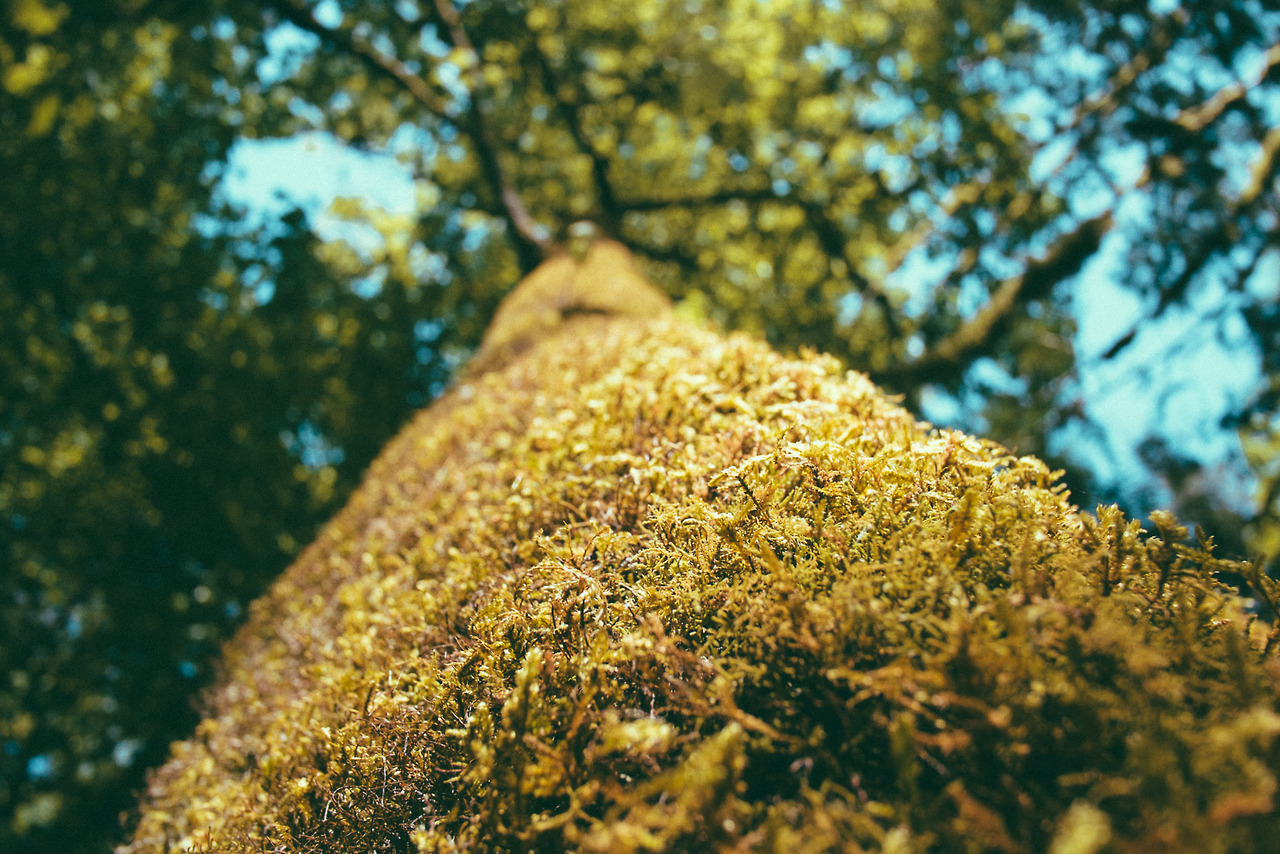
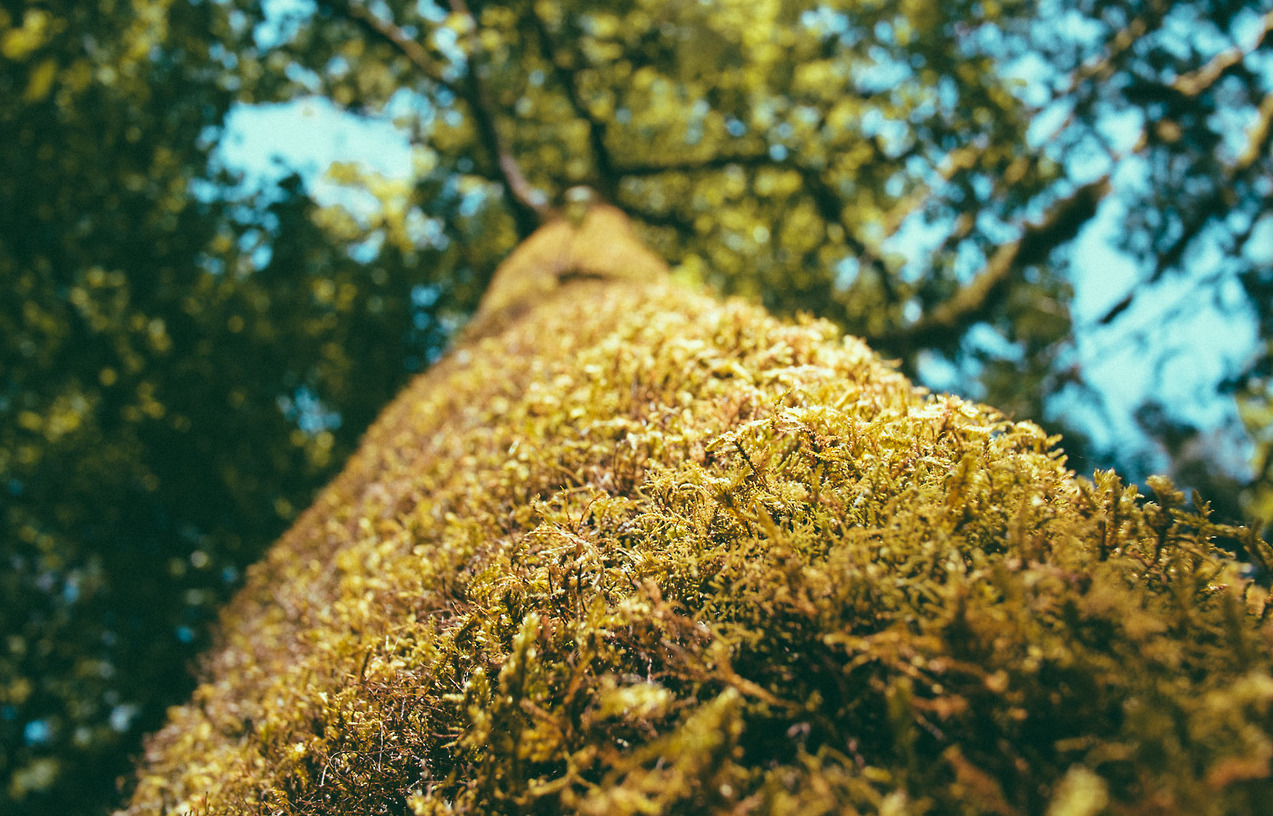
worked on spacing, font sizes, and opactity in price boxes; corrected price background color and font opacity and spacing; corrected button background and border

diff --git a/css/global.css b/css/global.css
@@ -8,10 +8,21 @@ img {
 .navContainer {
     margin: 1px, auto;
     background-color: rgb(255, 255, 255);
-    font-size: 13.5px;
-    color: rgba(0, 0, 0, .5);
-    /*color: darkslategray;*/
+    font-size: 14.5px;
 }
+
+.gen {
+    color:  rgba(0, 0, 0, .5);
+}
+
+.specLogo {
+    color: rgba(0, 0, 0, .6);
+}
+
+.specPrice {
+    color: black;
+}
+ 
 .rowNav {
     margin-bottom: 2px;
 }
@@ -27,92 +38,112 @@ img {
 }
 .columnNav li {
     display: inline;
-    margin-right: 30px;
+    margin-right: 22px;
 }
 body {
     background-color: rgb(255, 255, 255);
 }
 header {
-    background-image: url("../img/background.jpg");
+    background-image: url("../img/backgroundc.jpg");
     background-repeat: no-repeat;
     background-size: cover;
     width: 100%;
-    height: 468px;
-    padding: 200px;
+    height: 430px;
+    padding: 150px;
     margin-left: 0;
     margin-right: 0;
     color: white;
     text-shadow: 0px 2px 2px black;
     text-align: center;
-    font-size: 50px; 
+    font-size: 50px;
 }
 
 .prices {
-    margin-left: 115.5px;
-    margin-right: 115.5px;
+    /*margin-left: 130px;
+    margin-right: 130px;*/
+    margin-left: 13.25%;
+    margin-right: 13.25%;
     display: flex;
+    margin-top: 30px;
 }
 
-.price5ContainerCol {
+.priceContainerCol {
     flex: 3;
     padding: 10px;
-    margin: 30px 5px;
-    /*margin-right: 5px;*/
+    margin: 2px;
     text-align: center;
 }
 
 .rowpriceType {
-    font-size: 13px;
+    font-size: 17px;
     color: white;
-    padding: 30px;
-    letter-spacing: 2px;
+    /*padding: 30px;*/
+    letter-spacing: 3px;
 }
 
 .rowpriceAmount {
-    font-size: 60px;
+    font-size: 90px;
     color: white;
-    padding: 10px;
+    /*padding: 10px;*/
+    font-weight: 300;
 }
 
 .rowpriceSchedule {
-    font-size: 16;
+    font-size: 20px;
     color: rgba(255, 255, 255, 0.5);
-    padding: 10px;
+    /*padding: 10px;*/
 }
 /*apply shading on image and all of the color headers. figure out span on the pricing text */
 .price5Head {
-    background-color: rgb(64, 131, 61);
-    /*display: flex;*/
-    margin-bottom: 40px;
+    background-color: rgba(64, 131, 61, .9);
+    padding-top: 15px;
+    padding-bottom: 15px;
 }
-
-.priceDetails > div {
-    border-bottom: 1px solid black;
-}
-/*do priceDetails > div. the > sign means "within" so that says all of the divs within the class." NEED TO ADD THE TOP, BOTTOM, AND SIDES. */
-.price25ContainerCol {
-    flex: 3;
-    padding: 10px;
-    margin-right: 10px;
-}
-
 .price25Head {
-    background-color: rgb(32, 52, 116);
-    /*display: flex;*/
-    margin-bottom: 40px;
-}
-
-.price45ContainerCol {
-    flex: 3;
-    padding: 10px;
-    margin-right: 10px;
+    background-color: rgba(32, 52, 116, .9);
 }
 
 .price45Head {
-    background-color: rgb(14, 14, 14);
-    /*display: flex;*/
-    margin-bottom: 40px;
+    background-color: rgba(14, 14, 14, .9);
 }
+
+.priceDetails > div {
+    border: 1px solid rgb(215, 215, 215);
+    /*border-right: 1px solid rgb(215, 215, 215);
+    border-bottom: 1px solid rgb(215, 215, 215);
+    border-left: 1px solid rgb(215, 215, 215);*/
+    text-align: center;
+    background-color: rgb(245, 245, 245);
+    padding: 10px; 
+    color: rgba(0, 0, 0, .7)
+}
+
+.priceChoose {
+    border: 1px solid rgb(215, 215, 215);
+    /*border-right: 1px solid rgb(215, 215, 215);
+    border-bottom: 1px solid rgb(215, 215, 215);
+    border-left: 1px solid rgb(215, 215, 215);*/
+    text-align: center;
+    background-color: rgb(255, 255, 255);
+    padding: 27px;
+    margin-bottom: 20px;
+}
+
+button {
+    border-radius: 150px;
+    background-color: rgb(255, 255, 255);
+    border: 2px solid rgb(215, 215, 215);
+    /*border-top: 2px solid rgb(215, 215, 215);
+    border-right: 2px solid rgb(215, 215, 215);
+    border-bottom: 2px solid rgb(215, 215, 215);
+    border-left: 2px solid rgb(215, 215, 215);*/
+    padding-top: 10px;
+    padding-bottom: 10px;
+    padding-right: 15px;
+    padding-left: 15px;
+}
+
+
 
 /*for the gray text in footer . . . still have to figure out the "links"*/
 footer {

diff --git a/index.html b/index.html
@@ -15,10 +15,10 @@
             <div class="columnNav">
                 <nav>
                     <ul>
-                        <li>YOUR LOGO</li>
-                        <li>Home</li>
-                        <li>Pricing</li>
-                        <li>Contact</li>
+                        <li class="specLogo"><strong>YOUR LOGO</strong></li>
+                        <li class="gen"><strong>Home</strong></li>
+                        <li class="specPrice"><strong>Pricing</strong></li>
+                        <li class="gen"><strong>Contact</strong></li>
                     </ul>
                 </nav>
             </div>
@@ -31,7 +31,7 @@
     </header>
     
     <div class="prices">
-        <div class="price5ContainerCol">
+        <div class="priceContainerCol">
             <div class="price5Head">
                 <div class="rowpriceType">PERSONAL</div>
                 <div class="rowpriceAmount">$5</div>
@@ -47,12 +47,12 @@
                 <div>Unlimited bandwidth</div>
             </div>
             <div class="priceChoose">
-                <button type="submit">Choose</button>
+                <button type="submit"><strong>Choose</strong></button>
                 <!--QQRagen: add link for button to go to?-->
             </div>
         </div>
 
-        <div class="price25ContainerCol">
+        <div class="priceContainerCol">
             <div class="price25Head">
                 <div class="rowpriceType">SMALL BUSINESS</div>
                 <div class="rowpriceAmount">$25</div>
@@ -64,18 +64,18 @@
                 <div>Use your own domain</div>
                 <div>Standard customer support</div>
                 <div>10GB file storage</div>
-                <div>5 databases</div>
+                <div>Text5 databases</div>
                 <div>Unlimited bandwidth</div>
             </div>
 
             <div class="priceChoose">
-                <button type="submit">Choose</button>
+                <button type="submit"><strong>Choose</strong></button>
                 <!--QQRagen: add link for button to go to?-->
             </div>
         </div>
 
 
-        <div class="price45ContainerCol">
+        <div class="priceContainerCol">
             <div class="price45Head">
                 <div class="rowpriceType">ENTERPRISE</div>
                 <div class="rowpriceAmount">$45</div>
@@ -87,12 +87,12 @@
                 <div>Use your own domain</div>
                 <div>Standard customer support</div>
                 <div>Unlimited file storage</div>
-                <div>25 databases</div>
+                <div>Text25 databases</div>
                 <div>Unlimited bandwidth</div>
             </div>
 
             <div class="priceChoose">
-                <button type="submit">Choose</button>
+                <button type="submit"><strong>Choose</strong></button>
                 <!--QQRagen: add link for button to go to?-->
             </div>
         </div>

diff --git a/indexexampleday4.html b/indexexampleday4.html
@@ -48,6 +48,8 @@
                 <div class="column"></div>
                 <div class="column"></div>
             </div>
+
+            
             <!--if you want even columns, you don't have to add column classes.-->
                     
                     <!--<div class="column column-3">
@@ -68,3 +70,13 @@
 
 </body>
 </html>
+
+.priceDetails > div {
+    border-top: 1px solid rgb(215, 215, 215);
+    border-right: 1px solid rgb(215, 215, 215);
+    border-bottom: 1px solid rgb(215, 215, 215)y;
+    border-left: 1px solid rgb(215, 215, 215);
+    text-align: center;
+    background-color: rgb(245, 245, 245);
+}
+/*do priceDetails > div. the > sign means "within" so that says all of the divs within the class." NEED TO ADD THE TOP, BOTTOM, AND SIDES. */
